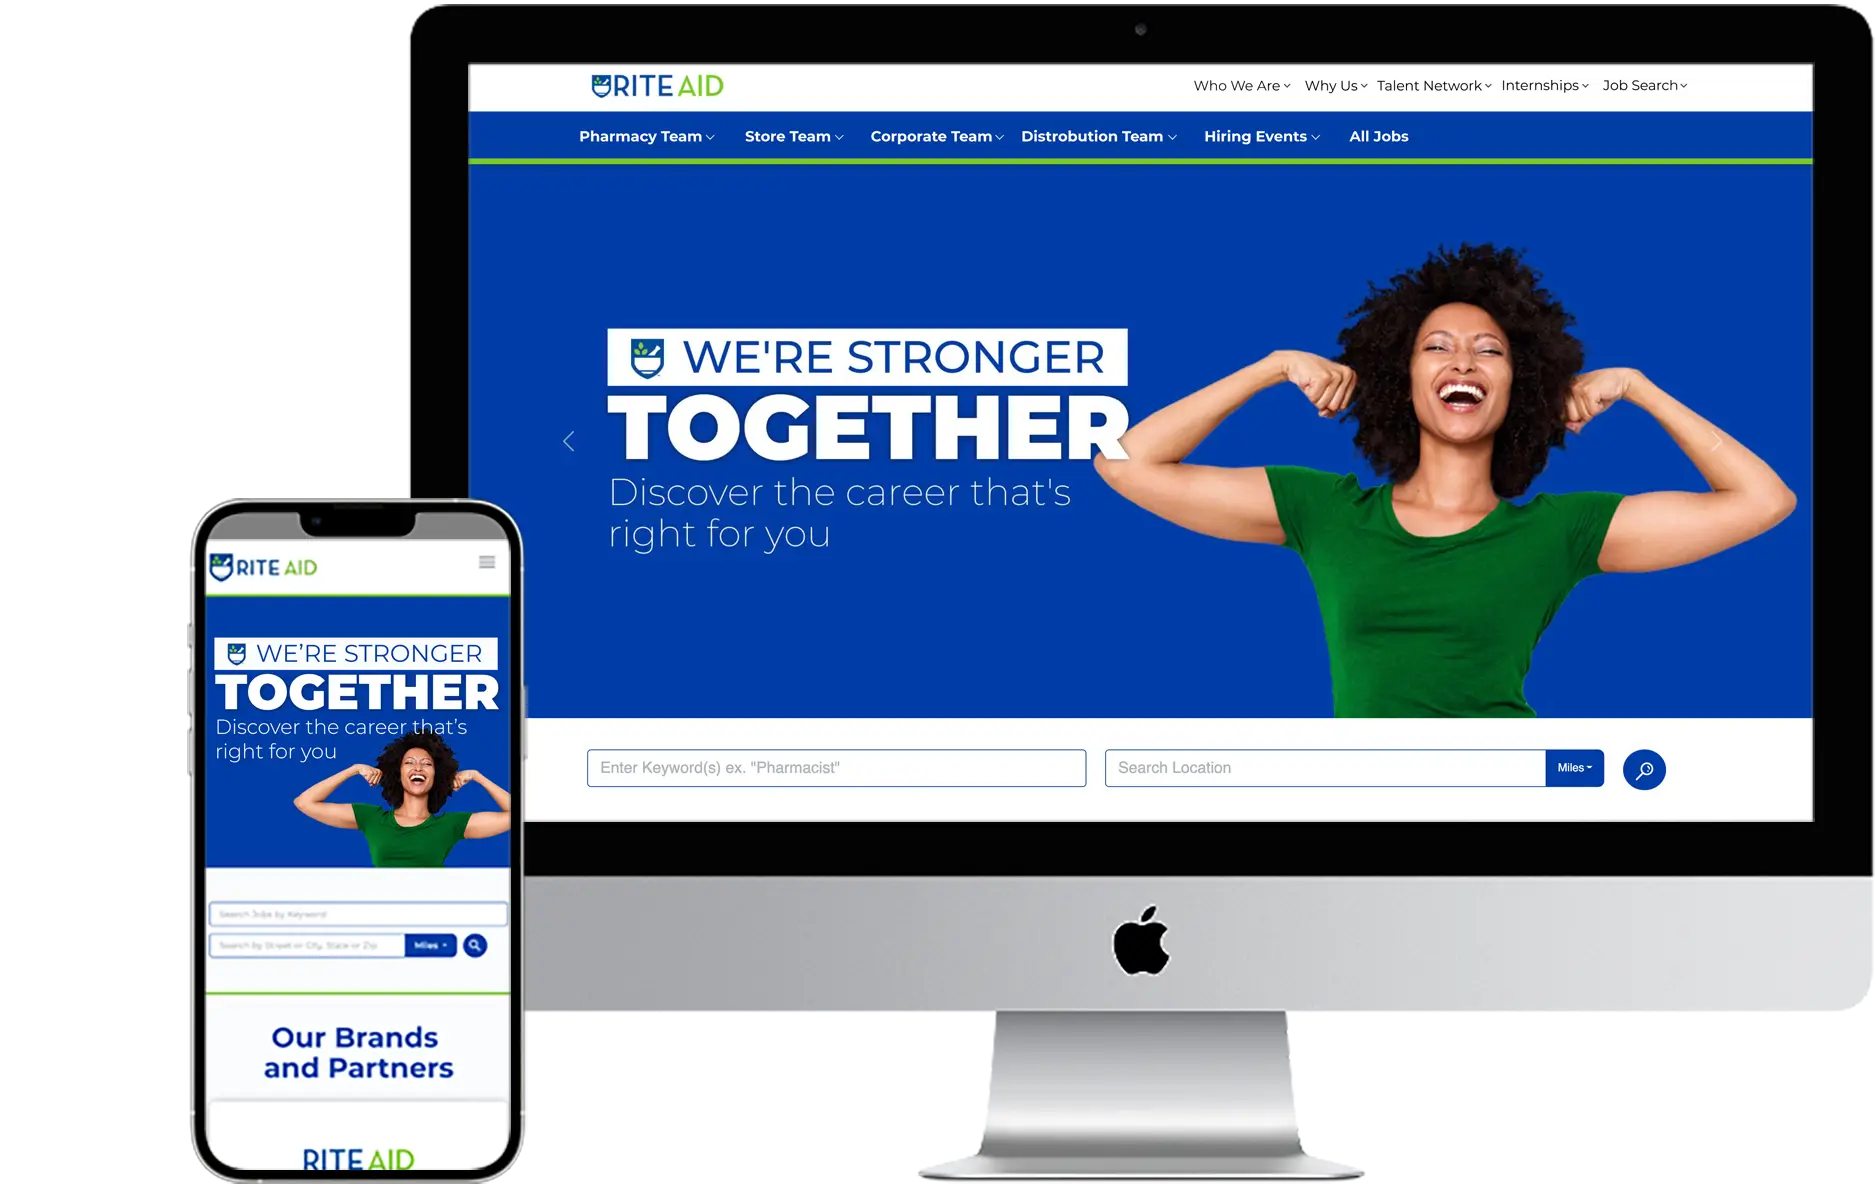
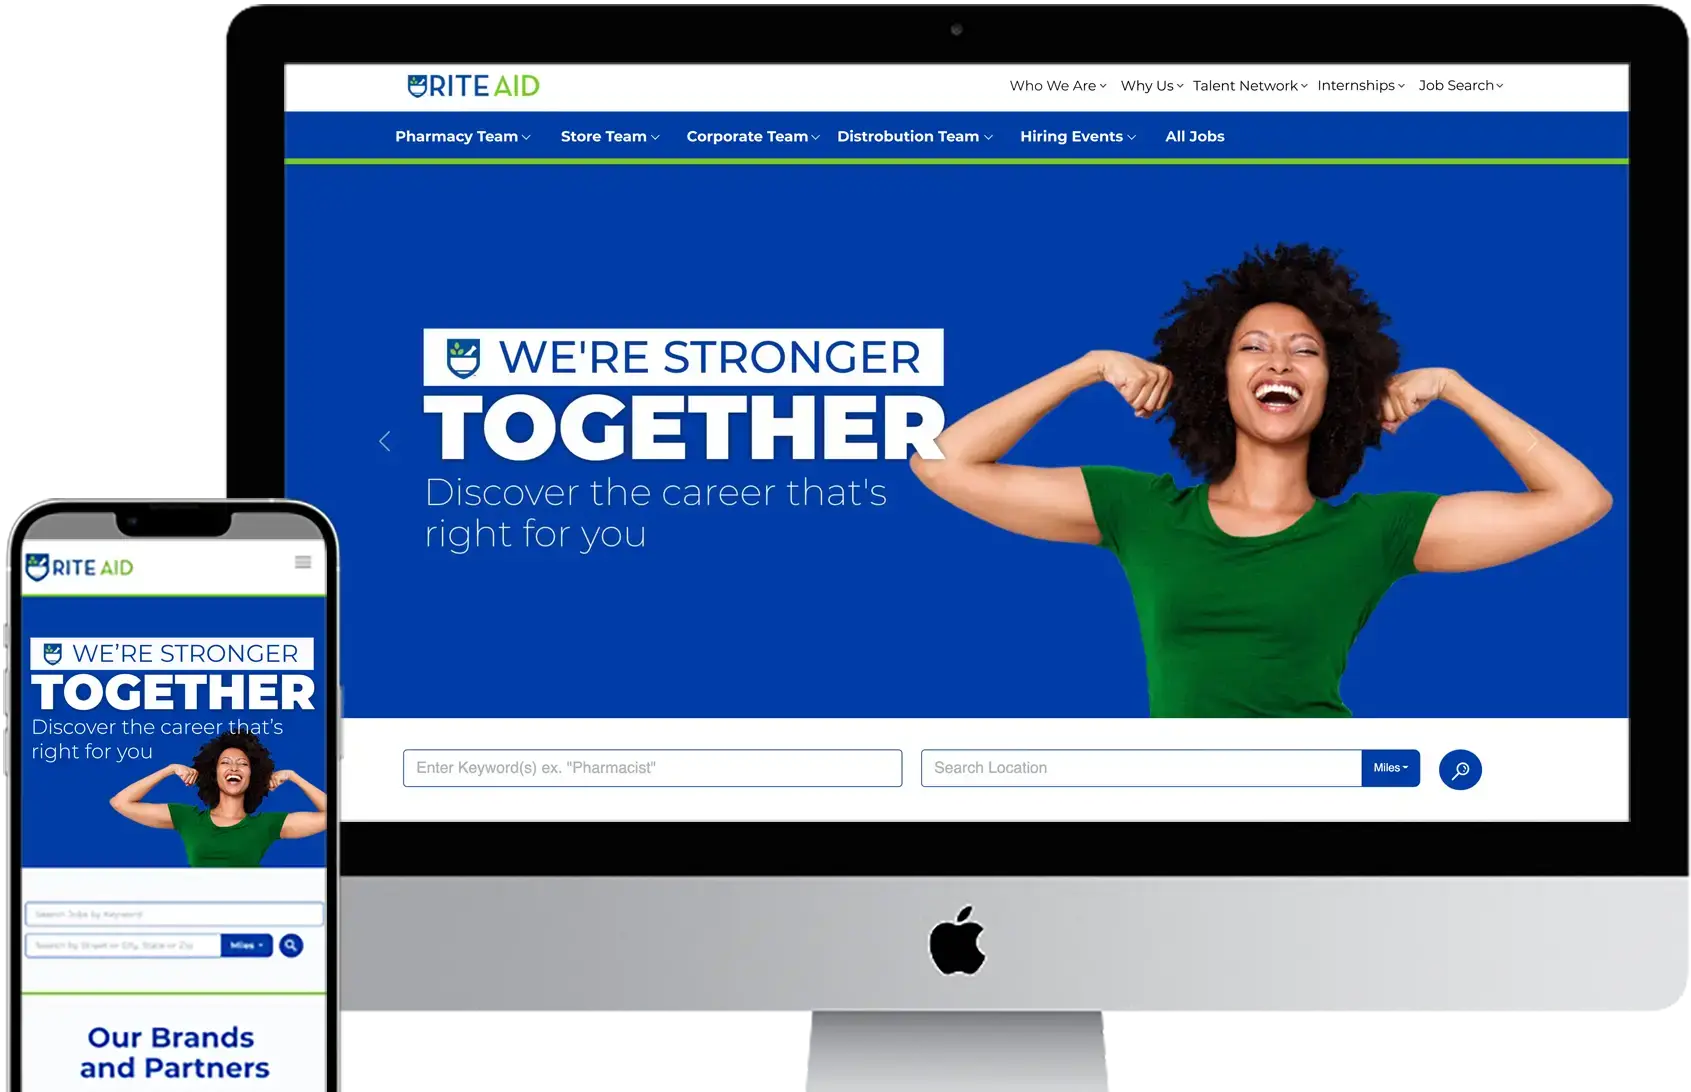
fixing a naming issue of image files

diff --git a/src/data/caseStudies.tsx b/src/data/caseStudies.tsx
@@ -48,7 +48,7 @@ export const caseStudiesArr: CaseStudyType[] = [
     slug: "riteaid",
     hero: {
       name: "Rite Aid Careers",
-      image: "riteaid/rite-aid-hero2.webp",
+      image: "riteaid/rite-aid-hero.webp",
       alt: "rite aid hero image",
       width: 1691,
       height: 1092,
